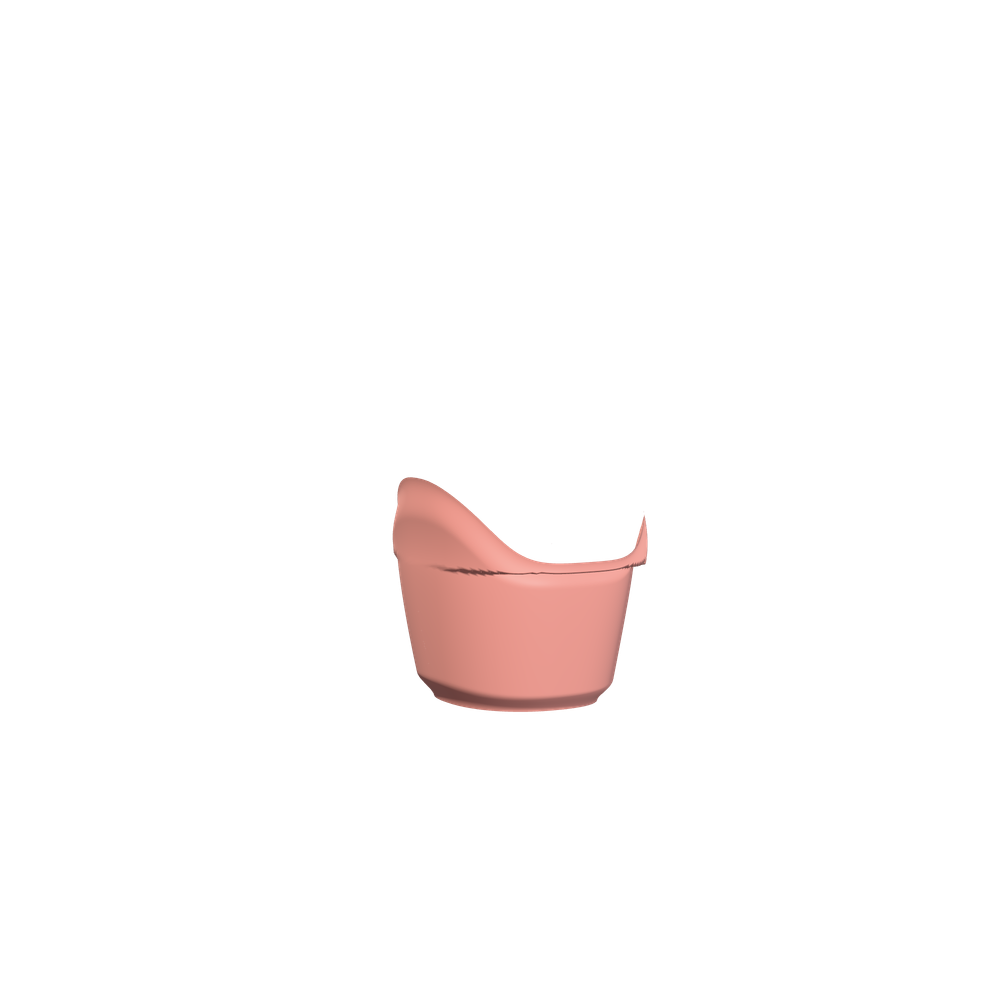
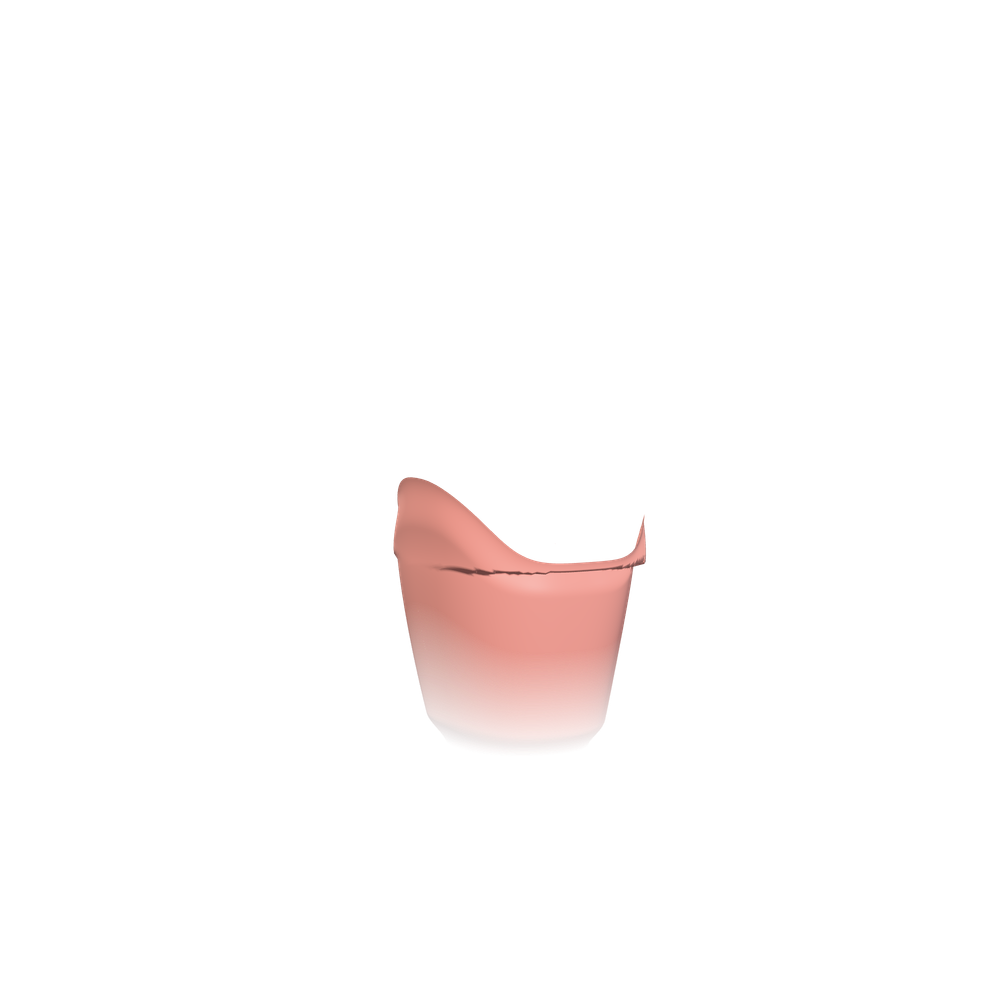
V6-03: veneer and smile renders v2 — gum that dissolves instead of a cut rim, thinner porcelain shell

Changed region(s): [[0.403, 0.62, 0.62, 0.744], [0.558, 0.558, 0.651, 0.589], [0.496, 0.558, 0.527, 0.589]]

diff --git a/frontend/scripts/render-treatments/jobs.js b/frontend/scripts/render-treatments/jobs.js
@@ -6,8 +6,19 @@ const titanium = (T) => new T.MeshStandardMaterial({ color: 0xc3c7cc, metalness:
 const anodized = (T) => new T.MeshStandardMaterial({ color: 0xd6bf8c, metalness: 1, roughness: 0.27, side: T.DoubleSide });
 const gingiva = (T) => new T.MeshPhysicalMaterial({ color: 0xd48f8a, roughness: 0.5, clearcoat: 0.25, clearcoatRoughness: 0.35, sheen: 0.6, sheenRoughness: 0.5, sheenColor: new T.Color(0xffb9b2), side: T.DoubleSide });
 const enamel = (T) => new T.MeshPhysicalMaterial({ vertexColors: true, roughness: 0.24, clearcoat: 0.75, clearcoatRoughness: 0.14, sheen: 0.28, sheenRoughness: 0.45, sheenColor: new T.Color(0xfff2e0) });
-const veneerPorcelain = (T) => new T.MeshPhysicalMaterial({ transparent: true, opacity: 0.88, color: 0xf3f7fb, roughness: 0.12, clearcoat: 1, clearcoatRoughness: 0.05, sheen: 0.25, sheenColor: new T.Color(0xfff6ea), ior: 1.52, side: T.DoubleSide });
+const veneerPorcelain = (T) => new T.MeshPhysicalMaterial({ transparent: true, opacity: 0.9, color: 0xf3f7fb, roughness: 0.2, clearcoat: 0.7, clearcoatRoughness: 0.12, sheen: 0.25, sheenColor: new T.Color(0xfff6ea), ior: 1.52, side: T.DoubleSide });
 const porcelain = (T) => new T.MeshPhysicalMaterial({ color: 0xf7f2ea, roughness: 0.25, clearcoat: 0.9, clearcoatRoughness: 0.1, sheen: 0.3, sheenRoughness: 0.4, sheenColor: new T.Color(0xfff4e6), ior: 1.5 });
+
+/** Vertical alpha ramp for soft tissue that should dissolve, not end in a cut edge. Stops run from v = 1 down to v = 0. */
+function fadeMap(T, stops) {
+  const c = document.createElement("canvas");
+  c.width = 4; c.height = 256;
+  const x = c.getContext("2d");
+  const g = x.createLinearGradient(0, 0, 0, 256);
+  for (const [at, colour] of stops) g.addColorStop(at, colour);
+  x.fillStyle = g; x.fillRect(0, 0, 4, 256);
+  return new T.CanvasTexture(c);
+}
 
 function orbit(cam, T, { target, distance, yaw, pitch }) {
   cam.position.set(target[0] + distance * Math.sin(yaw) * Math.cos(pitch), target[1] + distance * Math.sin(pitch), target[2] + distance * Math.cos(yaw) * Math.cos(pitch));
@@ -56,10 +67,12 @@ export const JOBS = {
     rim: 1.1,
     parts(assets, T) {
       const o = { W: 8.7, H: 10.8, T: 7, root: 10, ripple: 0.08 };
-      const shellGeometries = veneerShell(o);
+      const shellGeometries = veneerShell(o, { thickness: 0.3 }); // a veneer is a fraction of a millimetre: keep it visibly thin
+      const collar = gingiva(T); // the gum dissolves downwards instead of ending in a cut rim
+      collar.transparent = true; collar.alphaMap = fadeMap(T, [[0, "#fff"], [0.45, "#fff"], [1, "#000"]]); collar.depthWrite = true;
       return {
         tooth: { geometry: tooth(o), material: enamel(T) },
-        gum: { geometry: toothGum({ ...o, gumBottom: -4.2 }), material: gingiva(T) },
+        gum: { geometry: toothGum({ ...o, gumBottom: -5.6 }), material: collar },
         // The shell is several geometries (two sheets + edge strips) merged into one mesh group below.
         shell: { geometry: shellGeometries, material: veneerPorcelain(T) },
       };
@@ -129,18 +142,10 @@ export const JOBS = {
         const t = (al - centres[i].a) / (centres[i + 1].a - centres[i].a);
         return centres[i].y + (centres[i + 1].y - centres[i].y) * t - 2.3 * Math.pow(Math.sin(Math.PI * t), 1.5);
       };
-      const fade = (() => {
-        const c = document.createElement("canvas");
-        c.width = 4; c.height = 256;
-        const x = c.getContext("2d");
-        const g = x.createLinearGradient(0, 0, 0, 256);
-        g.addColorStop(0, "#000"); g.addColorStop(0.55, "#fff"); g.addColorStop(1, "#fff");
-        x.fillStyle = g; x.fillRect(0, 0, 4, 256);
-        return new T.CanvasTexture(c);
-      })();
+      const fade = fadeMap(T, [[0, "#000"], [0.5, "#fff"], [1, "#fff"]]);
       const plateMaterial = gingiva(T);
       plateMaterial.transparent = true; plateMaterial.alphaMap = fade; plateMaterial.depthWrite = true;
-      parts.plate = { geometry: archGum({ R, alpha: alphaMax + 0.1, edge }), material: plateMaterial };
+      parts.plate = { geometry: archGum({ R, alpha: alphaMax + 0.1, edge, top: Math.max(...centres.map((c) => c.y)) + 12 }), material: plateMaterial };
       return parts;
     },
     camera(cam, T) {

diff --git a/frontend/scripts/render-treatments/geometry.js b/frontend/scripts/render-treatments/geometry.js
@@ -217,11 +217,11 @@ export function toothGum(o = {}) {
 
 /** Alveolar gum plate behind a row of teeth: follows the dental arch (radius R), its lower edge is the gingival margin
  *  (zeniths at the tooth centres, papillae between them), its top fades out. `edge(alpha)` gives the margin height. */
-export function archGum({ R, alpha, edge, height = 15 }) {
+export function archGum({ R, alpha, edge, top }) {
   return grid(220, 46, (u, v) => {
     const a = (u * 2 - 1) * alpha;
     const r = R + 4.4 - 3.4 * v;
     const y0 = edge(a);
-    return [r * Math.sin(a), y0 + v * height, -(r * (1 - Math.cos(a)))];
+    return [r * Math.sin(a), y0 + v * (top - y0), -(r * (1 - Math.cos(a)))]; // scalloped margin below, level edge above
   }, { flip: true });
 }

diff --git a/frontend/src/components/sections/explorers/explorers.css b/frontend/src/components/sections/explorers/explorers.css
@@ -104,7 +104,7 @@
 /* Veneer: --p runs from 0 (apart) to 1 (in place). */
 .ex[data-explorer="veneers"] .sr-v-shell {
   translate: calc((1 - var(--p)) * -24%) calc((1 - var(--p)) * 5%);
-  scale: calc(1 + (1 - var(--p)) * 0.1);
+  scale: calc(1 + (1 - var(--p)) * 0.05);
   transition: none; /* follows the slider directly */
 }
 

diff --git a/docs/TASK_TRACKER.md b/docs/TASK_TRACKER.md
@@ -52,6 +52,7 @@
 | V6-00 | ممیزی سایت + بسته تأیید خلاقانه | V5-A2 | `WEBSITE_AUDIT.md` · `CREATIVE_APPROVAL_PACKAGE.md` | فقط سند | — | S | ✅ `9dae791` |
 | V6-01 | صفحههای اختصاصی سه درمان: explorer تعاملی + بخشهای مخصوص هر درمان + شعار Hero (D-082) | V6-00 | `sections/explorers/*` · `TreatmentPage.tsx` · `messages/*.json` · `treatment-pages.spec.ts` · `treatments.spec.ts` · `hero.spec.ts` | سه تعامل بومی، محتوای ۴زبانه، رفع خطای RTL guard در `SmileRender.tsx` | unit ۵۷/۵۷ · e2e ۱۹۱ passed / ۳ skipped · tsc/lint 0 · LCP 0.72s CLS 0 (Home) · Lighthouse، INP، دستگاه واقعی، screen reader: NOT RUN · بازبینی پزشکی/بومی: NOT DONE | L | ✅ |
 | V6-02 | باندهای Soft Blue بهجای دو باند تیره + چهار عنوان برند صفحه اصلی (D-083) | V6-01 | `globals.css` · `Section.tsx` · `Finale.tsx` · `TreatmentPage.tsx` · `messages/*.json` · `tokens.test.ts` · `contrast.test.ts` | توکن mist، متن تیره روی باند روشن | unit ۵۷/۵۷ · e2e ۱۹۰ passed / ۳ skipped / ۱ failed (Firefox، فرم مشاوره: در تکرار ۶ از ۶ سبز؛ ناپایدار، بیارتباط با این تغییر) · tsc/lint 0 | S | ✅ |
+| V6-03 | رندر v2 لمینت و قوس لبخند: لثهای که محو میشود (نه لبه بریده)، لبه بالایی صاف، پوسته لمینت نازکتر و کمبراقتر | V6-02 | `scripts/render-treatments/{geometry,jobs}.js` · `assets/treatments/{veneers,smile}/*.png` · `explorers.css` | همان خط لوله D-081؛ دوربین و meta بدون تغییر | e2e (chromium): service-art + treatment-pages + treatments = ۳۴ passed · lint 0 · کل مجموعه در این Task: NOT RUN (آخرین اجرای کامل در V6-02) · هنوز رندر رویهای است، نه عکس | S | ✅ |
 
 ## Phase C — Homepage
 
